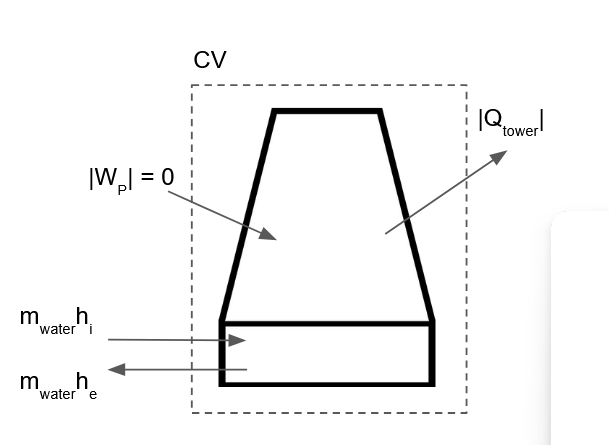
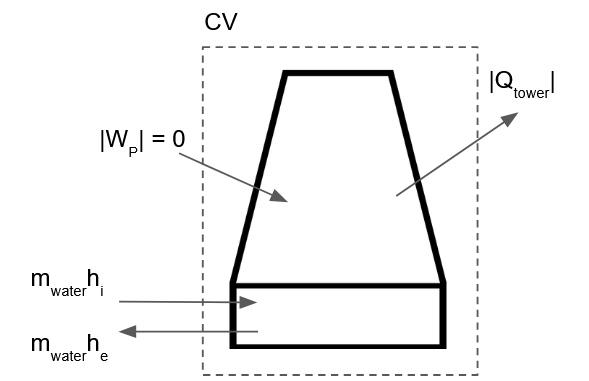
updated from feedback

diff --git a/_projects/ENGRD-2210-Portfolio-Assignment.md b/_projects/ENGRD-2210-Portfolio-Assignment.md
@@ -111,7 +111,7 @@ Now we will evaluate the more complicated case considering the evaporation of wa
 
 {% assign figure_counter = figure_counter | plus: 1 %}
 <figure style="text-align: center; width: 100%;">
-  <img src="{{ '/assets/images/ENGRD2210/Cooling.png' | relative_url }}" 
+  <img src="{{ '/assets/images/ENGRD2210/Evap.png' | relative_url }}" 
        alt="Control volume diagram of cooling tower for evaporation of water" 
        style="width: 100%;">
   <figcaption style="text-align: center; font-size: 0.9em; color: #2b2b2bff;">
@@ -123,6 +123,7 @@ Now we will evaluate the more complicated case considering the evaporation of wa
 Using the same assumptions as above except that steam is no longer negligible and is the sole source of cooling, the 1st law for this device can be written as follows:
 
 $$\dot{E}=\dot{Q}_{tower}-\dot{W}+\dot{m}_{in,resevoir}(h_{res})-\dot{m}_{out,evap}(h_{evap})$$
+
 Assume steady-state conditions such that
 $$\dot{m}_{in,resevoir}=\dot{m}_{out,evap}=\dot{m}_{evap}$$. Therefore,
 
@@ -130,6 +131,7 @@ $$\dot{Q}_{tower}=\dot{m}_{evap}(h_{evap}-h_{res})$$
 
 To estimate $$h_{evap}$$ and $$h_{res}$$, steam tables will be used. To find $$h_{evap}$$, $$h_{fg}$$ at the temperature $$T_{in}=48.2$$°C gives $$h_{evap}\approx2382.7$$ kJ/kgK. Under the assumptions stated, $$h_{res}$$ follows climate data and thus operating conditions change according to season. We will consider the two extremes of January and July. The average temperature in Phoenix in January is 13.5°C and in July is 34.5°C. This gives the corresponding approximated values using saturated liquid enthalpies of $$h_{winter}=54.60$$ and $$h_{summer}=146.68$$ kJ/kgK, respectively. Using $$|Q_{tower}|$$=892MW we get the following evaluations:
 $$h_{evap}$$
+
 $$
 892 \cdot 10^6 = \dot{m}_{\mathrm{evap,winter}} (2382.7 - 54.60) \cdot 10^3 \rightarrow \dot{m}_{\mathrm{evap,winter}} = 383.14 \text{ kg/s}, \quad
 $$
